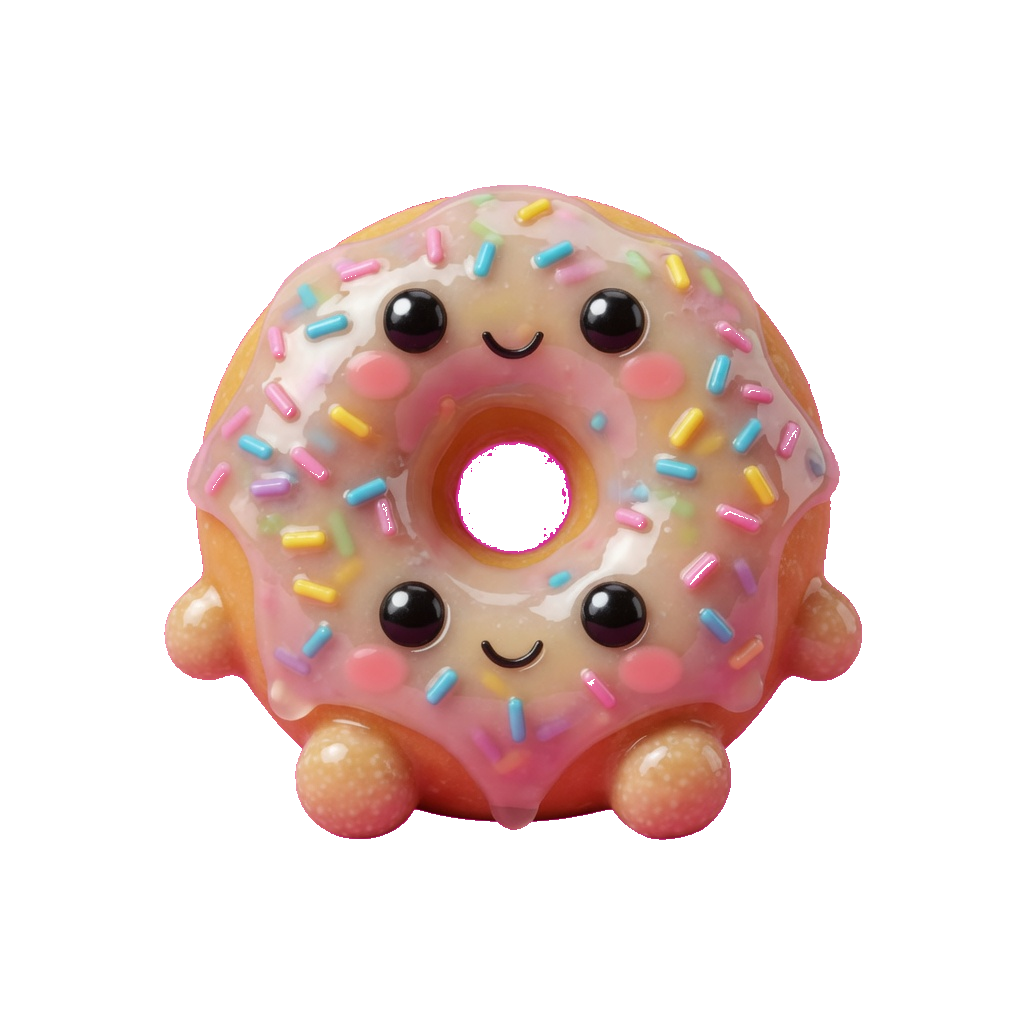
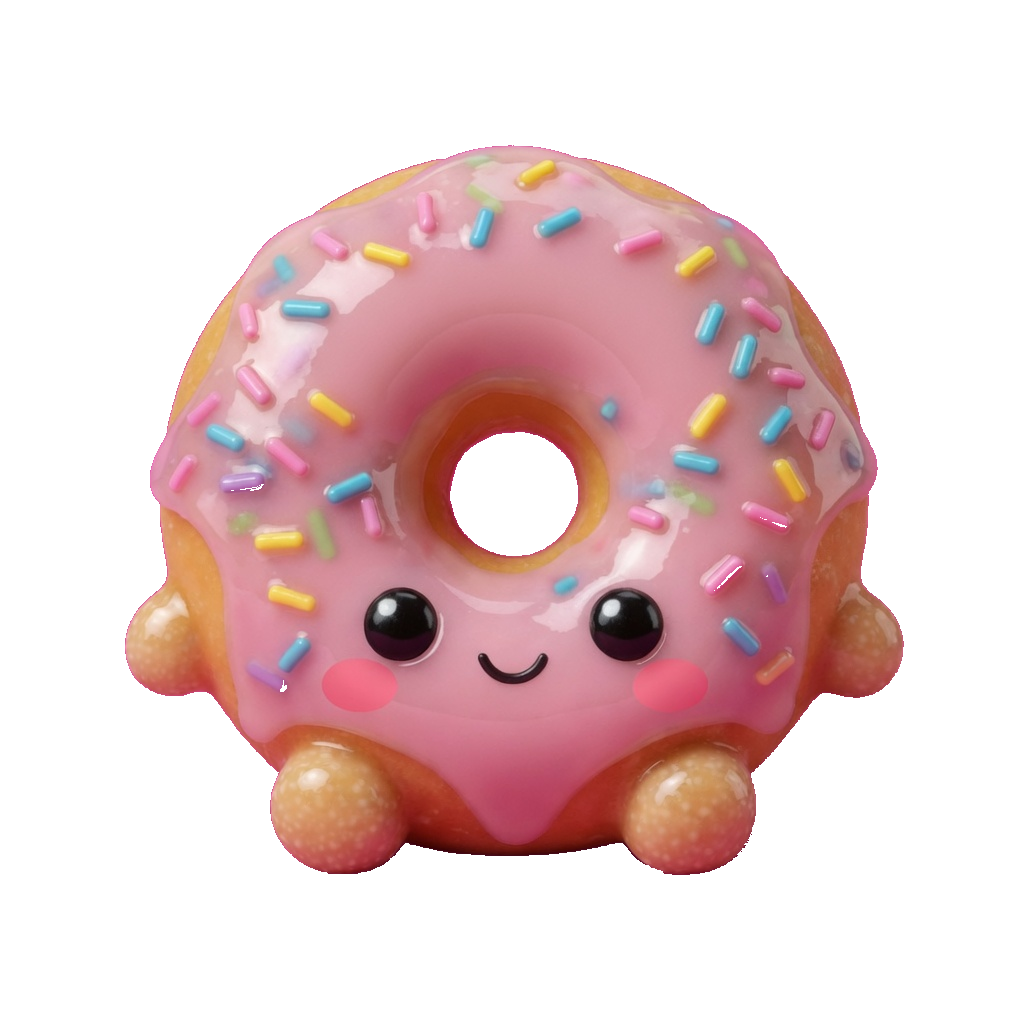
Give the donut squishee one face.
Keep pink frosting, sprinkles, hole, and feet. Strict-key the PNG.

diff --git a/scripts/key-squishees.py b/scripts/key-squishees.py
@@ -9,7 +9,7 @@ from PIL import Image
 ROOT = Path(__file__).resolve().parents[1] / "public" / "squishees"
 
 
-STRICT_FILES = {"aurora-jelly.png", "crystal-axolotl.png", "rainbow-cupcake.png"}
+STRICT_FILES = {"aurora-jelly.png", "crystal-axolotl.png", "rainbow-cupcake.png", "donut.png"}
 
 
 def is_key(r: int, g: int, b: int) -> bool:
